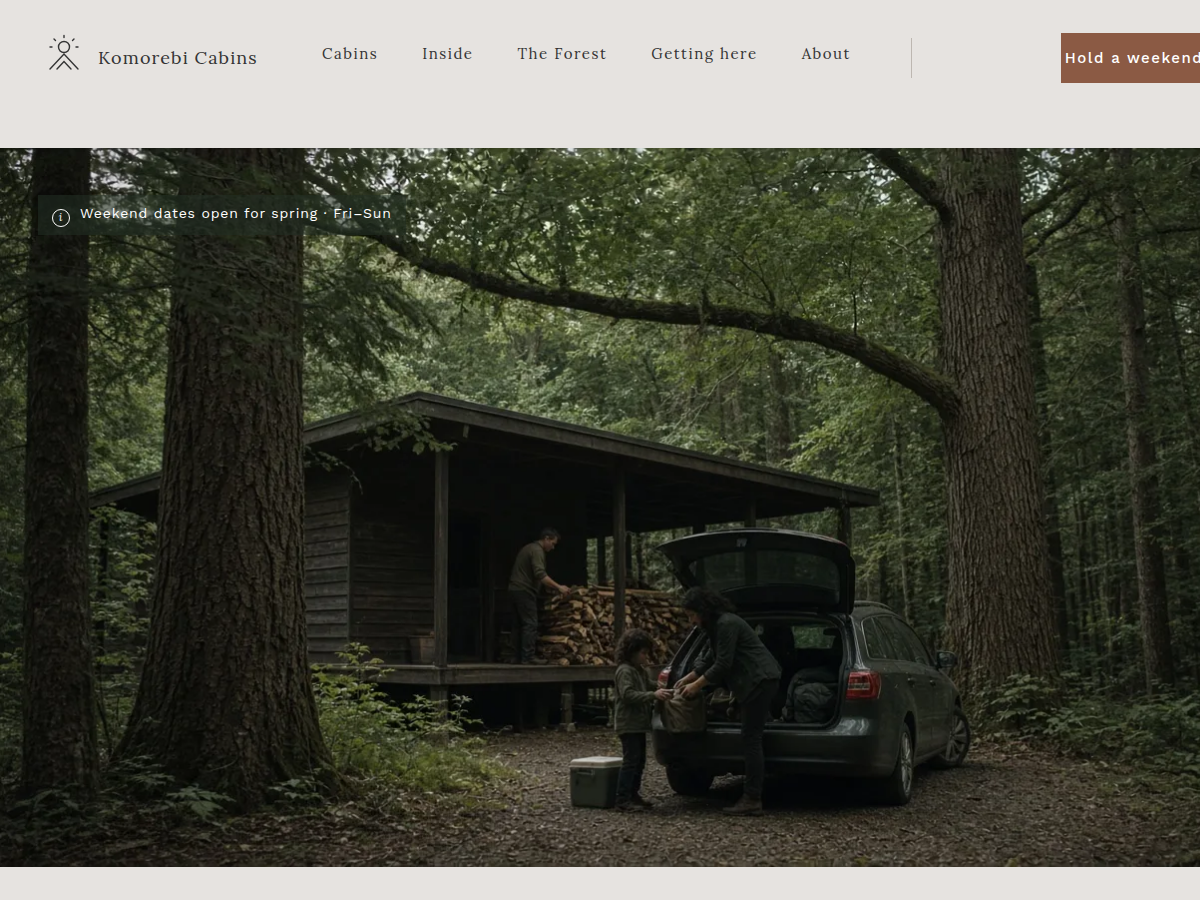
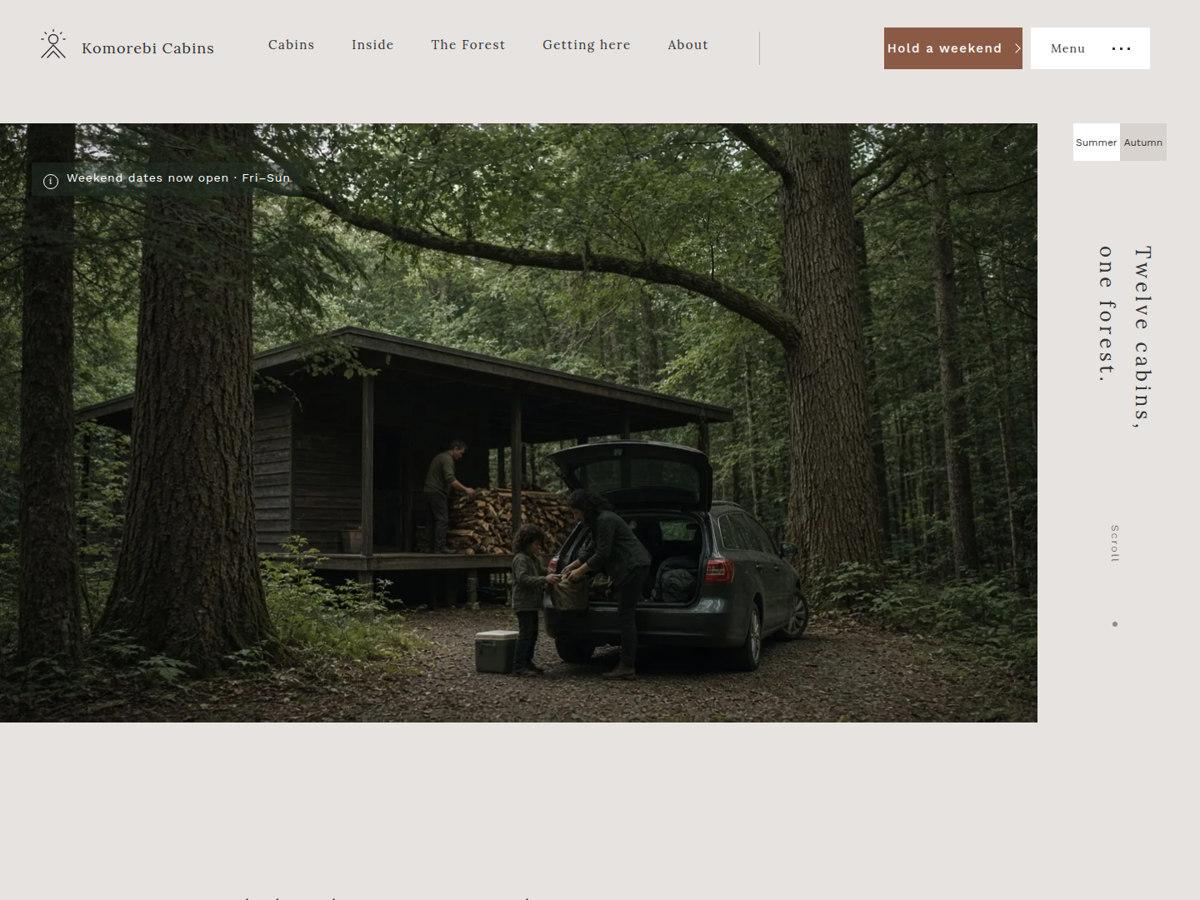
komorebi-cabins: stage 2 home fixes (compare prices, mosaic layout and captions, new Hollow and canopy photos, README, meta, screenshot)

diff --git a/themes/komorebi-cabins/style.css b/themes/komorebi-cabins/style.css
@@ -154,7 +154,7 @@ a { text-underline-offset: .22em; text-decoration-thickness: 1px; }
 }
 @media (max-width: 1023px) {
 	.kc-hero { display: flex; flex-direction: column; padding-top: 16px; }
-	.kc-hero__notice { position: static; order: 0; align-self: flex-start; margin: 0 0 12px 16px; }
+	.kc-hero__notice { background: rgba(34, 47, 37, .88); position: static; order: 0; align-self: flex-start; margin: 0 0 12px 16px; }
 	.kc-hero__photo { order: 1; width: 86.46%; aspect-ratio: 1230 / 710; }
 	.kc-hero__gutter { order: 2; position: static; display: flex; flex-direction: column; padding: 28px 24px 0 44px; }
 	.kc-hero__h1 { position: static; writing-mode: horizontal-tb; font-size: 1.75rem; letter-spacing: .04em; line-height: 1.5; order: 1; }
@@ -176,37 +176,38 @@ a { text-underline-offset: .22em; text-decoration-thickness: 1px; }
 .kc-intro__photo { width: 300px; margin: 0; }
 .kc-intro__photo img { aspect-ratio: 3 / 4; object-fit: cover; }
 @media (max-width: 1279px) { .kc-intro__cols { grid-template-columns: minmax(0, 520px) 260px; column-gap: 8vw; } .kc-intro__photo { width: 260px; } }
-@media (max-width: 1023px) { .kc-intro__in { padding: 0 24px; } .kc-intro { padding: 96px 0 72px; } .kc-intro__cols { display: block; } .kc-intro__side { margin-top: 40px; max-width: 320px; } .kc-intro__photo { width: 100%; } }
+@media (max-width: 1023px) { .kc-intro__in { padding: 0 24px; } .kc-intro { padding: 48px 0 72px; } .kc-intro__cols { display: block; } .kc-intro__side { margin-top: 40px; max-width: 320px; } .kc-intro__photo { width: 100%; } }
 
 /* S2 mosaic over canopy */
 .kc-mosaic { position: relative; overflow: clip; background: #26342a; }
 .kc-mosaic__bg { position: absolute; inset: -8% 0; margin: 0; }
 .kc-mosaic__bg .wp-block-image { height: 100%; }
-.kc-mosaic__bg img { width: 100%; height: 100%; object-fit: cover; filter: blur(6px); }
-.kc-mosaic__frame { position: relative; width: 100%; max-width: 1680px; margin: 0 auto; aspect-ratio: 1440 / 1200; }
+.kc-mosaic__bg img { width: 100%; height: 100%; object-fit: cover; filter: blur(6px) brightness(.72) saturate(.9); }
+.kc-mosaic__frame { position: relative; width: 100%; max-width: 1680px; margin: 0 auto; aspect-ratio: 1440 / 1340; }
 .kc-m { position: absolute; margin: 0; }
 .kc-m img { display: block; width: 100%; height: 100%; object-fit: cover; }
 .kc-m figcaption { position: absolute; top: 100%; left: 0; margin: 0; padding-top: 14px; color: #fff; font-size: .8125rem; font-weight: 400; letter-spacing: .1em; line-height: 1.4; white-space: nowrap; text-align: left; }
-.kc-m--fern { left: 0; top: 10%; width: 52.78%; aspect-ratio: 1 / 1.2; }
+.kc-m--fern { left: 0; top: 9%; width: 52.78%; aspect-ratio: 1 / 1; }
 .kc-m--fern figcaption { left: 44px; }
 .kc-m--beech figcaption { left: auto; right: 44px; text-align: right; }
-.kc-m--beech { right: 0; top: 2.5%; width: 38.89%; aspect-ratio: 3 / 4; }
-.kc-m--cedar { left: 41.67%; top: 63.33%; width: 23.61%; aspect-ratio: 4 / 3; z-index: 2; }
-.kc-m--hollow { right: 6.94%; top: 68.33%; width: 27.78%; aspect-ratio: 4 / 3; }
-.kc-mosaic__vtext { position: absolute; left: 54.6%; top: 16.7%; margin: 0; writing-mode: vertical-rl; font-family: var(--kc-serif); font-size: 1.25rem; letter-spacing: .14em; line-height: 1.9; color: #fff; }
+.kc-m--beech { right: 0; top: 2.2%; width: 38.89%; aspect-ratio: 3 / 4; }
+.kc-m--cedar { left: 41.67%; top: 56.7%; width: 23.61%; aspect-ratio: 4 / 3; z-index: 2; }
+.kc-m--hollow { right: 6.94%; top: 61.2%; width: 24%; aspect-ratio: 4 / 3; }
+.kc-mosaic__vtext { position: absolute; left: 13.9%; top: 67.2%; margin: 0; writing-mode: vertical-rl; font-family: var(--kc-serif); font-size: 1.25rem; letter-spacing: .14em; line-height: 1.9; color: #fff; }
 .kc-vline { display: block; }
-.kc-mosaic__link { position: absolute; left: 41.67%; top: 91.7%; margin: 0; }
+.kc-m figcaption, .kc-mosaic__vtext, .kc-mosaic__link a { text-shadow: 0 0 10px rgba(20, 32, 24, .75); }
+.kc-mosaic__link { position: absolute; left: 13.9%; top: 93%; margin: 0; }
 .kc-mosaic__link a { color: #fff; font-size: .9375rem; text-decoration: underline; text-underline-offset: 6px; text-decoration-thickness: 1px; }
 @media (max-width: 1023px) {
 	.kc-mosaic { padding: 72px 0 96px; }
 	.kc-mosaic__frame { aspect-ratio: auto; display: flex; flex-direction: column; }
 	.kc-m { position: relative; inset: auto; display: flex; flex-direction: column; aspect-ratio: auto; }
 	.kc-m img { aspect-ratio: var(--kc-ar); }
-	.kc-m figcaption { position: static; order: -1; padding: 0 16px 10px; left: auto; }
+	.kc-m figcaption { position: static; padding: 10px 16px 0; left: auto; line-height: 1.4; }
 	.kc-m--fern { width: 80%; --kc-ar: 1 / 1.2; }
 	.kc-m--fern figcaption, .kc-m--beech figcaption { left: auto; right: auto; text-align: left; }
-	.kc-m--beech { width: 60%; margin: -82px 0 0 auto; --kc-ar: 3 / 4; z-index: 1; }
-	.kc-m--cedar { width: 56%; margin: -66px 0 0 20%; --kc-ar: 4 / 3; z-index: 2; }
+	.kc-m--beech { width: 60%; margin: -56px 0 0 auto; --kc-ar: 3 / 4; z-index: 1; }
+	.kc-m--cedar { width: 56%; margin: 14px 0 0 20%; --kc-ar: 4 / 3; z-index: 2; }
 	.kc-m--hollow { width: 64%; margin: 28px 0 0 auto; --kc-ar: 4 / 3; }
 	.kc-mosaic__vtext { position: static; writing-mode: horizontal-tb; font-size: 1.125rem; margin: 48px 24px 0; }
 	.kc-vline { display: inline; }
@@ -223,7 +224,7 @@ a { text-underline-offset: .22em; text-decoration-thickness: 1px; }
 .kc-table thead th { font-family: var(--kc-serif); font-weight: 400; font-size: 1.25rem; border-bottom-color: var(--kc-ink); }
 .kc-table thead th:first-child, .kc-table tbody th { width: 22%; }
 .kc-table tbody th { font-size: .8125rem; letter-spacing: .06em; color: var(--kc-muted); font-weight: 400; }
-.kc-table__price td { white-space: nowrap; text-align: right; font-family: var(--kc-serif); font-size: 1.25rem; font-weight: 400; padding-right: 0; }
+.kc-table__price td { white-space: nowrap; text-align: left; font-family: var(--kc-serif); font-size: 1.25rem; font-weight: 400; padding-right: 16px; }
 .kc-table__price th { color: var(--kc-ink); }
 .kc-stack { display: none; }
 .kc-compare .kc-ruled__v { white-space: nowrap; }

diff --git a/themes/komorebi-cabins/patterns/front-mosaic.php b/themes/komorebi-cabins/patterns/front-mosaic.php
@@ -28,7 +28,7 @@
 <!-- /wp:image -->
 
 <!-- wp:image {"sizeSlug":"full","linkDestination":"none","className":"kc-m kc-m--hollow sp-reveal sp-reveal--zoom"} -->
-<figure class="wp-block-image size-full kc-m kc-m--hollow sp-reveal sp-reveal--zoom"><img src="<?php echo esc_url( get_theme_file_uri( 'assets/images/cabin-hollow.webp' ) ); ?>" alt="Large timber cabin in a woodland clearing with a stone fire pit at dusk."/><figcaption class="wp-element-caption">Hollow · sleeps 8</figcaption></figure>
+<figure class="wp-block-image size-full kc-m kc-m--hollow sp-reveal sp-reveal--zoom"><img src="<?php echo esc_url( get_theme_file_uri( 'assets/images/cabin-hollow.webp' ) ); ?>" alt="Double-height living room of the largest cabin with a long dining table and a tall window onto cedar trunks."/><figcaption class="wp-element-caption">Hollow · sleeps 8</figcaption></figure>
 <!-- /wp:image -->
 
 <!-- wp:paragraph {"className":"kc-mosaic__vtext"} -->

diff --git a/themes/komorebi-cabins/patterns/front-hero.php b/themes/komorebi-cabins/patterns/front-hero.php
@@ -10,7 +10,7 @@
 <!-- wp:group {"align":"full","className":"kc-hero","layout":{"type":"default"}} -->
 <div class="wp-block-group alignfull kc-hero"><!-- wp:group {"className":"kc-hero__notice","layout":{"type":"default"}} -->
 <div class="wp-block-group kc-hero__notice"><!-- wp:paragraph -->
-<p><span class="kc-info" aria-hidden="true">i</span>Weekend dates open for spring · Fri–Sun</p>
+<p><span class="kc-info" aria-hidden="true">i</span>Weekend dates now open · Fri–Sun</p>
 <!-- /wp:paragraph --></div>
 <!-- /wp:group -->
 

diff --git a/themes/komorebi-cabins/README.md b/themes/komorebi-cabins/README.md
@@ -1,4 +1,16 @@
 # Komorebi Cabins
 
+A block theme for a self-catering forest cabin village. Design notes: `brand/design-spec.md`, brand brief: `brand.md`.
+
+- **Signatures:** a photograph flush left with a vertical two-line tagline, season chip and scroll label in the right gutter; a free-overlap mosaic of the four cabin sizes over a blurred beech canopy (with parallax); a split header with a terracotta reserve button and a white Menu box.
+- **Plan comparison:** Fern, Beech, Cedar and Hollow side by side in a table, stacked into one card per cabin below 782px.
+- **Inside row:** an edge-peek photograph with a stepping strip of three portraits.
+- **Fonts:** Lora (display) and Work Sans (text), plus Noto Serif TC and Noto Serif JP subsets, bundled under `assets/fonts` with their OFL licences.
+- **Status:** home page complete; inner pages and languages follow.
+- **Home sections (patterns):** `front-hero`, `front-intro`, `front-mosaic`, `front-compare`, `front-inside`, `front-weekend`, `front-hosts`, `front-here`, `front-band`, `front-journal`, `front-letter`.
+- **Parts:** `header` (split header, one menu), `footer`.
+- **Scroll effects:** `assets/sp-scroll.css|js` (reveal, stagger, parallax).
+- **Forms:** `inc/shippress-forms.php` (shared form slot, works without plugins).
+
 <!-- screenshots:start -->
 <!-- screenshots:end -->
